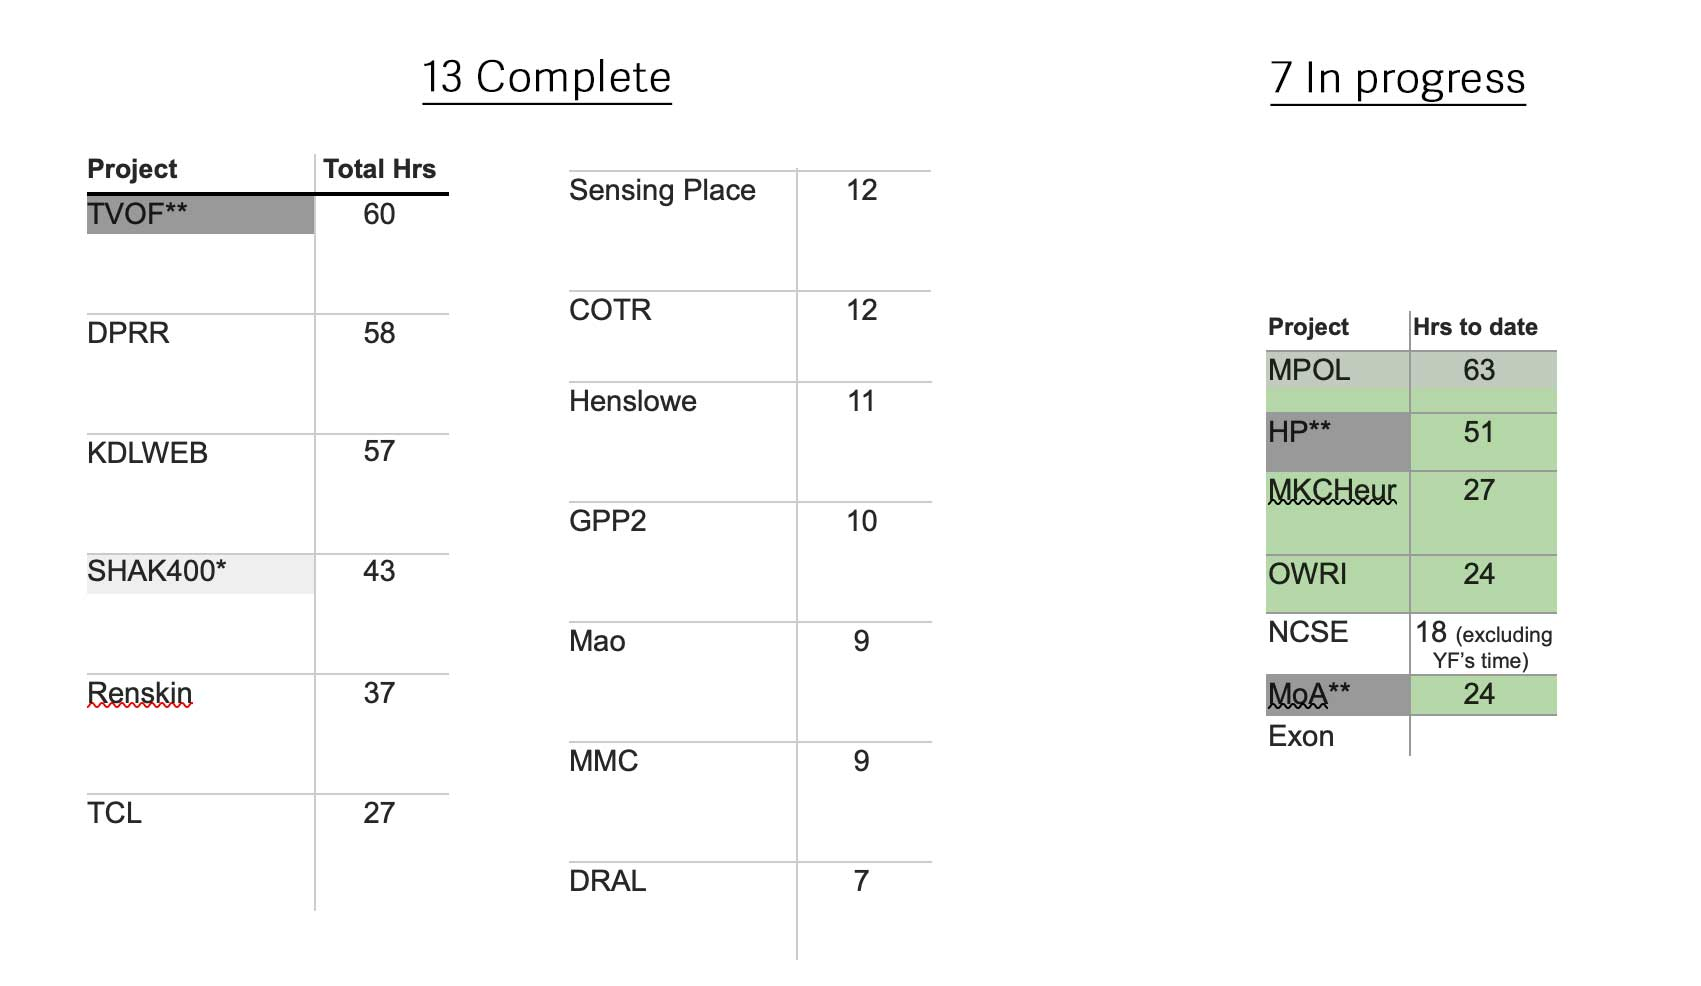
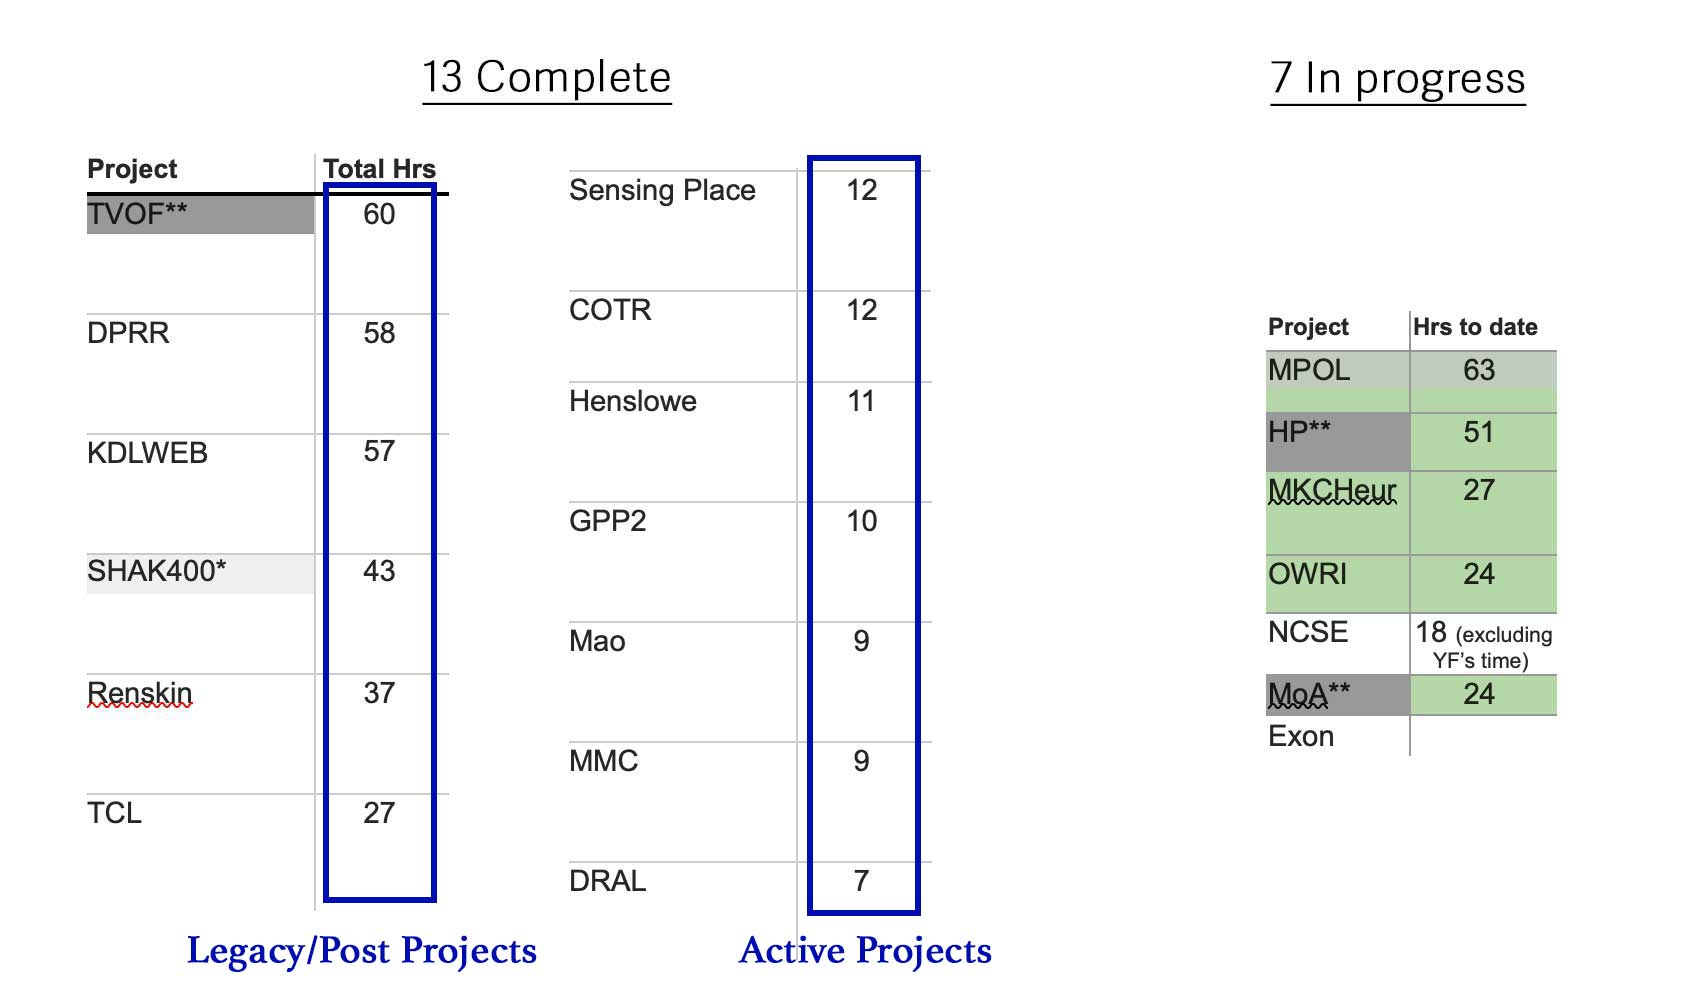
feat: updated slides with new additions

Changed region(s): [[0.4362, 0.1521, 0.592, 1.0], [0.1869, 0.1826, 0.2804, 0.9128], [0.0935, 0.9432, 0.3116, 1.0]]

diff --git a/frontend/src/slides/2025-digital-accessibility.md b/frontend/src/slides/2025-digital-accessibility.md
@@ -27,6 +27,20 @@ Alessandra Esposito, Geoffroy Noël, Tiffany Ong
 
 {% slide %}
 
+## Overview
+
+- <span style="font-size:1.5em; font-weight:bold; color:#0a2d50;">History</span> (5min)
+
+- <span style="font-size:1.5em; font-weight:bold; color:#0a2d50;">Reasons</span> (10min)
+
+- <span style="font-size:1.5em; font-weight:bold; color:#0a2d50;">Current</span> (15min)
+
+- <span style="font-size:1.5em; font-weight:bold; color:#0a2d50;">Questions</span> (30min)
+
+{% endslide %}
+
+{% slide %}
+
 ### History
 
 - 2019: KDL's began an [approach to accessibility](https://emckclac.sharepoint.com/:w:/r/sites/AHkdlfa/_layouts/15/Doc.aspx?sourcedoc=%7B2F4D65D9-066F-440B-B50A-8F23F446470C%7D&file=Accessibility%20-%20Index%20Page.docx&action=default&mobileredirect=true)
@@ -41,13 +55,13 @@ Alessandra Esposito, Geoffroy Noël, Tiffany Ong
 
 ### 2020 late Review meeting
 
-Approximately 10 members involved over a 12 month period (one team member working solely on accessibility for 6 months)
+Approximately 10 members involved over a 12 month period (2 team members working solely on accessibility for 6 months)
 
 {% endslide %}
 
 {% slide %}
 
-Completed 13 projects, 7 in progress from [review meetings](https://emckclac.sharepoint.com/:w:/r/sites/AHkdlfa/_layouts/15/Doc.aspx?sourcedoc=%7BF931468B-46B2-4E40-9294-FAA4C7B16D4D%7D&file=Accessibility%20Review%20Agenda.docx&action=default&mobileredirect=true)
+70+ more on the [list of legacy projects spreadsheet](https://docs.google.com/spreadsheets/d/1--ku5lYoGUA-bGzK9xtziqd_dg0uFgYxyBKctEyuq3E/edit?gid=980906287#gid=980906287) (4-5 years at current rate)
 
 <img
     src="/assets/images/slides/accessibility-review-figures.jpg"
@@ -59,13 +73,24 @@ Completed 13 projects, 7 in progress from [review meetings](https://emckclac.sha
 
 {% slide %}
 
-70+ more on the [list of legacy projects spreadsheet](https://docs.google.com/spreadsheets/d/1--ku5lYoGUA-bGzK9xtziqd_dg0uFgYxyBKctEyuq3E/edit?gid=980906287#gid=980906287)
+Legacy/post projects took 3-5 times longer due to project setup and [recording of fixes](https://docs.google.com/spreadsheets/d/130zWTV0CxzZP1Uf6DroqpI4ALVeI50g4NdmOTsHiUcA/edit?gid=1790552927#gid=1790552927)
 
 <img
-    src="/assets/images/slides/accessibility-legacy-spreadsheet.png"
+    src="/assets/images/slides/accessibility-fix-spreadsheet.png"
   height="570"
   alt="Screenshot of a Google spreadsheet displaying a long list of projects and related information"
   />
+screenshot from [spreadsheet]
+
+{% endslide %}
+
+{% slide %}
+
+- Active projects seemed to take much less time
+- But difficult to know how much accessibility in active projects really took
+  - some projects did not have a separate accessibility task to log time
+  - assess and fixes often recorded within requirement tasks
+  - mainly statement time was recorded
 
 {% endslide %}
 
@@ -73,7 +98,7 @@ Completed 13 projects, 7 in progress from [review meetings](https://emckclac.sha
 
 ### 2020 late:
 
-An attempt to list down [process](https://emckclac.sharepoint.com/:w:/r/sites/AHkdlfa/_layouts/15/Doc.aspx?sourcedoc=%7B61FD200C-3189-45CD-8B2C-628FBE9013F6%7D&file=2022.06.09_Process%20List_TO.docx&action=default&mobileredirect=true&DefaultItemOpen=1)
+An attempt to list down [process](https://emckclac.sharepoint.com/:w:/r/sites/AHkdlfa/_layouts/15/Doc.aspx?sourcedoc=%7B61FD200C-3189-45CD-8B2C-628FBE9013F6%7D&file=2022.06.09_Process%20List_TO.docx&action=default&mobileredirect=true&DefaultItemOpen=1) but was not taken forward
 
 <img
     src="/assets/images/slides/accessibility-process-2020-highlight.jpg"
@@ -85,35 +110,14 @@ An attempt to list down [process](https://emckclac.sharepoint.com/:w:/r/sites/AH
 
 {% slide %}
 
-- 70+ more projects to complete (4-5 years at current rate)
-- Legacy/post projects (3-5 times longer): <br>
-  Longer process due to VM setup and recording of fixes
-- Active projects - not easy to record accessibility tasks separately and much was recorded within the evolutionationary development requirement tasks.
+## Learnings
 
-{% endslide %}
-
-{% slide %}
-
-[Insert screenshot of spreadsheet]
-
-{% endslide %}
-
-{% slide %}
-
-[insert screenshot of active project time logs]
-
-{% endslide %}
-
-{% slide %}
-
-### Updated approach
-
-- 2023 early: [Strategy](https://emckclac.sharepoint.com/:w:/r/sites/AHkdlfa/_layouts/15/Doc.aspx?sourcedoc=%7B0F136034-6480-4CEB-8328-7004E5036D8D%7D&file=2023.06.22_KDL%20Digital%20Accessibility%20Strategy%20v3.docx&action=default&mobileredirect=true) and [Process](https://emckclac.sharepoint.com/:w:/r/sites/AHkdlfa/_layouts/15/Doc.aspx?sourcedoc=%7B5BD942CD-9C12-44F7-82B7-68222CEE7A01%7D&file=2023.02.08_KDL%20Digital%20Accessibility%20Process.docx&action=default&mobileredirect=true&DefaultItemOpen=1) aligned with SDLC
-- 2023 late: New team formed [Project Review Record](https://app.clickup.com/26475560/v/dc/t7z18-23888/t7z18-239555)
-- 2024: trialled 3 projects -<br>
-  Living with machines, Alice Thornton, King's Past
-- 2025: [Post-project review](https://app.clickup.com/26475560/v/dc/t7z18-23888/t7z18-299815)
-- 2025: mid: Blogpost and Slides
+- Top-down strategies and complex official resources
+- Unclear requirements and lack of internal documentation
+- Over focus on compliance
+- Uneven team knowledge and understanding
+- Disproportionate work distribution and mismatched responsibilities
+- Lack of open dialogue and collaboration
 
 {% endslide %}
 
@@ -140,31 +144,32 @@ Reference: Adaptation from [Microsoft’s Inclusive Design Toolkit](https://incl
 
 The Web Content Accessibility Guidelines (WCAG), developed by the World Wide Web Consortium, are technical standards that help make the digital world accessible to people with disabilities. Numerous stakeholders, including disability advocacy groups, government agencies, and accessibility research organizations, collaborated to create these guidelines, which are considered the universal standard for digital accessibility.
 
-Reference: [https://www.wcag.com/resource/what-is-wcag/](https://www.wcag.com/resource/what-is-wcag/)
-
-{% endslide %}
-
-{% slide %}
-
-WCAG standards are rooted in four main principles: perceivable, operable, understandable, and robust, often called **POUR**.
-
-- **Perceivable:** Information must be perceivable to people using only one of their senses, so they understand all related content.
-
-- **Operable:** End users must be able to interact with all webpage elements. For instance, your website should be easily navigable with just a keyboard or voice controls for non-mouse users.
-
-- **Understandable:** The principle is just what it seems—end users must be able to understand web page content and functionality information.
-
-- **Robust:** Your website must effectively communicate information to all users, including users of assistive technologies, and remain compatible with evolving technologies and user needs.
-
-{% endslide %}
-
-{% slide %}
-
 - WCAG Versions 1.0 (1999), 2.0 (2008), 2.1 (2018) and 2.2 (2023)
 
 - Three Levels of WCAG Conformance: A (minimum), AA (mid), and AAA (highest)
 
 Reference: [https://www.wcag.com/resource/what-is-wcag/](https://www.wcag.com/resource/what-is-wcag/)
+
+{% endslide %}
+
+{% slide %}
+
+<img src="/assets/images/slides/accessibility-poster.jpg" alt="An illustration showing individuals from various groups to represent different permanent, temporary or situational impairments and disabilities" style="width:800px">
+
+Reference: Adaptation from and more examples at [gov.uk](https://github.com/UKHomeOffice/posters/blob/master/accessibility/dos-donts/posters_en-UK/accessibility-posters-set.pdf)
+
+{% endslide %}
+
+{% slide %}
+
+### Updated approach
+
+- 2023 early: [Strategy](https://emckclac.sharepoint.com/:w:/r/sites/AHkdlfa/_layouts/15/Doc.aspx?sourcedoc=%7B0F136034-6480-4CEB-8328-7004E5036D8D%7D&file=2023.06.22_KDL%20Digital%20Accessibility%20Strategy%20v3.docx&action=default&mobileredirect=true) and [Process](https://emckclac.sharepoint.com/:w:/r/sites/AHkdlfa/_layouts/15/Doc.aspx?sourcedoc=%7B5BD942CD-9C12-44F7-82B7-68222CEE7A01%7D&file=2023.02.08_KDL%20Digital%20Accessibility%20Process.docx&action=default&mobileredirect=true&DefaultItemOpen=1) aligned with SDLC
+- 2023 late: New team formed [Project Review Record](https://app.clickup.com/26475560/v/dc/t7z18-23888/t7z18-239555)
+- 2024: trialled 3 projects -<br>
+  Living with machines, Alice Thornton, King's Past
+- 2025 mid: [Post-project review](https://app.clickup.com/26475560/v/dc/t7z18-23888/t7z18-299815)
+- 2025 mid: Blogpost and Slides
 
 {% endslide %}
 
@@ -286,6 +291,7 @@ Reference: [University of Melbourne](https://www.unimelb.edu.au/__data/assets/pd
 2. **Scope** \[Kick off\]
 3. **Assess/Fix** \[Evolutionary Development\]
 4. **Documentation** \[Evolutionary Development\]
+5. <span style="color:lightgray">**SLA** [Post-project]</span>
 
 {% endslide %}
 
@@ -311,16 +317,6 @@ alt="Flowchart depicting the steps in software development, highlighting the acc
 
 {% slide %}
 
-1. **Requirements** \[Feasibility\]
-2. **Scope** \[Kick off\]
-3. **Assess/Fix** \[Evolutionary Development\]
-4. **Documentation** \[Evolutionary Development\]
-5. <span style="color:lightgray">**SLA** [Post-project]</span>
-
-{% endslide %}
-
-{% slide %}
-
 1. **Requirements** \[Feasibility\] <br>_Lead_ **_A_**_, Collaborate_ **_E U_**_, Consult_ **_S_** **_R_**
 2. **Scope** \[Kick off\] <br>_Lead_ **_A_**_, Collaborate_ **_E U_**_, Consult_ **_R_**
 3. **Assess/Fix** \[Evolutionary Development\] <br>_Lead_ **_E U_**_, Collaborate_ **_A_**
@@ -340,7 +336,10 @@ _Lead_ **_A_**_, Collaborate_ **_E U_**_, Consult_ **_S_**
 
 {% slide %}
 
-    Determine the MoSCoW Digital Accessibility requirement needed
+### Determine the MoSCoW Digital Accessibility requirement needed during Feasibility
+
+(Questionnaire could be given to partners at this stage)<br> <br>
+(Estimates need to be updated to adapt for different project budgets/timelines)
 
 {% endslide %}
 
@@ -458,7 +457,23 @@ COULD (**C**)
 
 {% slide %}
 
-The scope should be checked at different points in the project, especially if there are changes to the requirements, to see if it still fits.
+<img
+    src="/assets/images/slides/accessibility-reqtable2.jpg"
+  width="800"
+  alt="Screenshot of a spreadsheet showing estimate figures from a project Feasibility"
+  />
+Example from [TIBBL Requirement Table](https://emckclac.sharepoint.com/:x:/r/sites/AHkdl/_layouts/15/Doc.aspx?sourcedoc=%7B8DD9C5C9-741B-4555-A5B2-D3C3AD8AAB41%7D&file=TIBBL-2025_Requirement_Tables.xlsx&action=default&mobileredirect=true&DefaultItemOpen=1)
+
+{% endslide %}
+
+{% slide %}
+<img
+    src="/assets/images/slides/accessibility-reqtable1.jpg"
+  width="800"
+  alt="Screenshot of a spreadsheet showing estimate figures from a project Feasibility"
+  />
+
+Example from [Slavery & Warfare Requirement Table](https://emckclac.sharepoint.com/:x:/r/sites/AHkdl/_layouts/15/Doc.aspx?sourcedoc=%7B54EF390E-34DE-4156-A99F-D8F185F172CA%7D&file=D5.0_Slavery%20&%20Warfare%20Requirement_Tables.xlsx=&nav=MTVfezk3MDY3MDhFLUNBQUYtNDg4NS05NDg2LTZBMzI0ODJENTc3Nn0&action=default&mobileredirect=true)
 
 {% endslide %}
 
@@ -474,22 +489,7 @@ _Lead_ **_A_**_, Collaborate_ **_E U_**_, Consult_ **_R_**
 
 {% slide %}
 
-## WON'T (**W**)
-
-- integrate basic digital accessibility requirements based on individual knowledge into the evolving solution
-- **not** perform specific accessibility assessments but scope still needed
-- **not** produce a public accessibility **statement**
-- Estimate **0.3 days** = A 0.1 | E 0.1 | U 0.1<hr>
-
-  ✘ No more than 5 users test
-
-        e.g. [Crossreads A](https://emckclac.sharepoint.com/:w:/r/sites/AHkdl/_layouts/15/Doc.aspx?sourcedoc=%7B87A0CB55-5CEE-4A34-9817-5B77A6F77468%7D&file=Crossreads_A_Statement_of_Work_REVISION_2023_10.docx&action=default&mobileredirect=true), [PiNiM](https://emckclac.sharepoint.com/:w:/r/sites/AHkdl/_layouts/15/Doc.aspx?sourcedoc=%7BF9864D7B-AC78-40FD-A6AE-914D7D734671%7D&file=Feasibility.docx&action=default&mobileredirect=true) ~0h
-
-{% endslide %}
-
-{% slide %}
-
-Discuss with project team and determine what will be assessed
+### Discuss with project team and determine what will be assessed during project Kick off
 
 {% endslide %}
 
@@ -528,8 +528,31 @@ Discuss with project team and determine what will be assessed
 {% endslide %}
 
 {% slide %}
+<img
+    src="/assets/images/slides/accessibility-scope-LwM.png"
+  width="800"
+  alt="Screenshot of a table listing requirements"
+  />
 
-## Scope table example
+Example from [Living with Machines](https://app.clickup.com/26475560/v/dc/t7z18-1608/t7z18-208270)
+{% endslide %}
+
+{% slide %}
+<img
+    src="/assets/images/slides/accessibility-scope-AT.png"
+  width="800"
+  alt="Screenshot of a table listing requirements"
+  />
+
+Example from [Alice Thornton](https://app.clickup.com/26475560/v/dc/t7z18-23908/t7z18-228368)
+
+{% endslide %}
+
+{% slide %}
+
+### Scope table template
+
+(still in progress)
 
 {% endslide %}
 
@@ -590,9 +613,7 @@ Discuss with project team and determine what will be assessed
 
 {% slide %}
 
-Other KDL scope examples:
-
-[Living with Machines](https://app.clickup.com/26475560/v/dc/t7z18-1608/t7z18-208270), [Alice Thornton](https://app.clickup.com/26475560/v/dc/t7z18-23908/t7z18-228368) (but these might not be the best examples as they are the first trials).
+The scope should be checked at different points in the project, especially if there are changes to the requirements, to see if it still fits.
 
 {% endslide %}
 
@@ -606,13 +627,24 @@ It's important to get an overview across projects over time for better estimatio
 
 {% slide %}
 
-Ensure tasks are set up in CU and split time estimates into subtasks below:
+Ensure tasks are set up in CU and split time estimates into subtasks in the main RQ task:
 
 - **2: Scope**
 
 - **3: Assess and fix** <br>_If done within the Evo Dev process, estimate roughly how long you took e.g. if you spent 5h developing or designing and did a few checks along the way, you might log 1h_
 
 - **4: Documentation** <br>_First deployment even on stg/dev should have the barebones statement_
+
+{% endslide %}
+
+{% slide %}
+<img
+    src="/assets/images/slides/accessibility-subtasks.png"
+  width="800"
+  alt="Screenshot of a task showing subtasks"
+  />
+
+Example from [King's Past](https://app.clickup.com/t/862jud41f)
 
 {% endslide %}
 
@@ -679,16 +711,56 @@ _Lead_ **_A_**_, Collaborate_ **_E U_**_, Consult_ **_PM R_**
 {% endslide %}
 
 {% slide %}
+<img
+    src="/assets/images/slides/accessibility-gov-statement.jpg"
+  width="800"
+  alt="Screenshot of website accessibility statement colour coded with repeated words"
+  />
+
+Adapted gov.uk template statement from [COTR](https://cotr.ac.uk/accessibility-statement/)
+
+{% endslide %}
+
+{% slide %}
+
+### Issues using the gov.uk template
+
+- took a long time to fill in
+- difficult to understand
+
+{% endslide %}
+
+{% slide %}
+<img
+    src="/assets/images/slides/accessibility-min-statement.jpg"
+  width="800"
+  alt="Screenshot of website accessibility statement colour coded with repeated words"
+  />
+
+Adapted minimal statement from [King's Digital Lab](https://kingsdigitallab.github.io/kdl/accessibility-statement/) highlighting repetition and Date title
+
+{% endslide %}
+
+{% slide %}
+
+### minimal generator template
+
+- shorter time
+- lots of repetition
+
+{% endslide %}
+
+{% slide %}
 
 - Recent KDL examples:
 
-  - [King's Past](https://kingspast.kcl.ac.uk/accessibility-statement)
+  - [King's Past](https://kingspast.kcl.ac.uk/accessibility-statement) (minimal generator)
 
-  - [Alice Thornton](https://thornton.kdl.kcl.ac.uk/accessibility/)
+  - [Alice Thornton](https://thornton.kdl.kcl.ac.uk/accessibility/) (gov.uk template)
 
-  - [Radical Translation](https://radicaltranslations.org/accessibility-statement/)
+  - [Radical Translation](https://radicaltranslations.org/accessibility-statement/) (minimal generator)
 
-  - [KDL](https://kdl.kcl.ac.uk/accessibility-statement/)
+  - [King's Digital Lab](https://kdl.kcl.ac.uk/accessibility-statement/) (minimal generator)
 
   - [Living with Machines](https://observablehq.com/@jmiguelv/language-of-mechanisation) (Very minimal)
 
